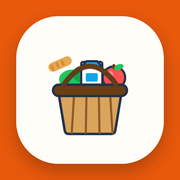
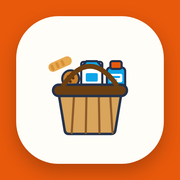
Add files via upload

Changed region(s): [[0.5556, 0.3333, 0.7222, 0.4722], [0.3056, 0.3611, 0.4722, 0.4722]]

diff --git a/sw.js b/sw.js
@@ -1,5 +1,5 @@
 // برنامه آذربایجان — حافظه آفلاین (PWA)
-const CACHE = "az-v4";
+const CACHE = "az-v5";
 const CORE = [
   "./",
   "./index.html",
